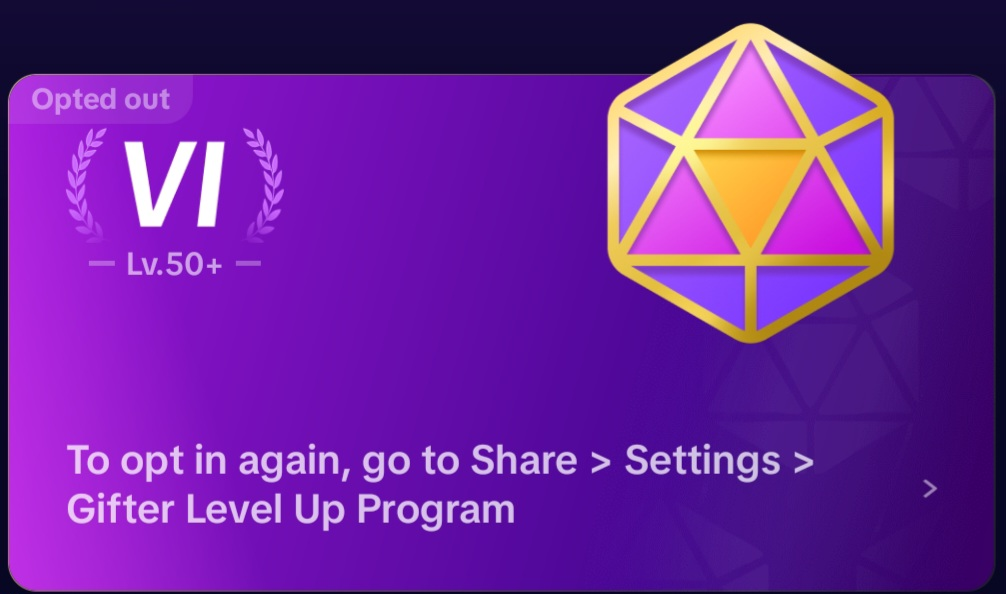
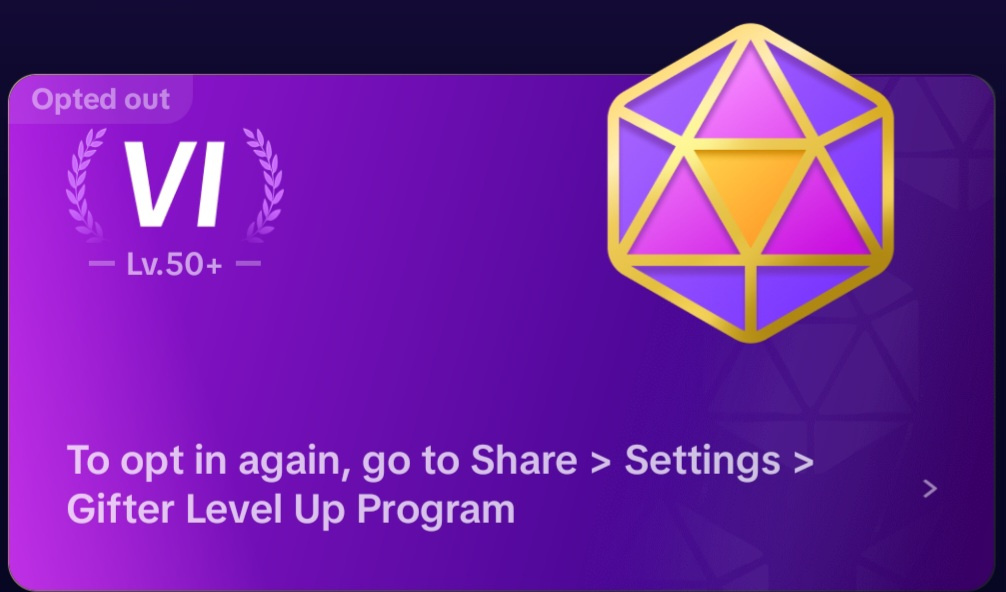
assets(gifter): crop black outer margins from range sheets

diff --git a/reports/GIFTER_RANGE_SHEET_CROP_REPORT.md b/reports/GIFTER_RANGE_SHEET_CROP_REPORT.md
@@ -1,0 +1,16 @@
+# Gifter Range-Sheet Crop Report
+
+Only the six original Gifter range-reference JPGs were processed to remove solid-black outer edge padding. The badges, lettering, level order, internal artwork, 11 detailed panels, master sheets, Rewards banner, progression logic, Coin thresholds, wallets and deleted Level-Up chart were not changed.
+
+| Source sheet | Before | After | Cropped pixels (L / T / R / B) |
+|---|---:|---:|---:|
+| LV.1 - LV.9.jpg | 985×566 | 985×566 | 0 / 0 / 0 / 0 |
+| LV.10 - LV.19.jpg | 989×560 | 989×560 | 0 / 0 / 0 / 0 |
+| LV.20 - LV.29.jpg | 998×580 | 998×580 | 0 / 0 / 0 / 0 |
+| LV.30 - LV.39.jpg | 995×580 | 995×580 | 0 / 0 / 0 / 0 |
+| LV.40 - LV.49.jpg | 988×588 | 988×588 | 0 / 0 / 0 / 0 |
+| LV.50+.jpg | 1006×594 | 1006×592 | 0 / 0 / 0 / 2 |
+
+Detection rule: near-black pixels have every RGB channel ≤ 42; an outer row or column is removed only when at least 99.2% of its pixels meet that rule. A 12% per-edge cap and 76% minimum-content gate prevent aggressive crops.
+
+All six source sheets decoded successfully. Cropped JPGs were re-encoded at quality 95 with progressive encoding and 4:4:4 chroma sampling. The before/after contact sheet and detailed pixel/hash metrics are attached to the workflow review artifact.
